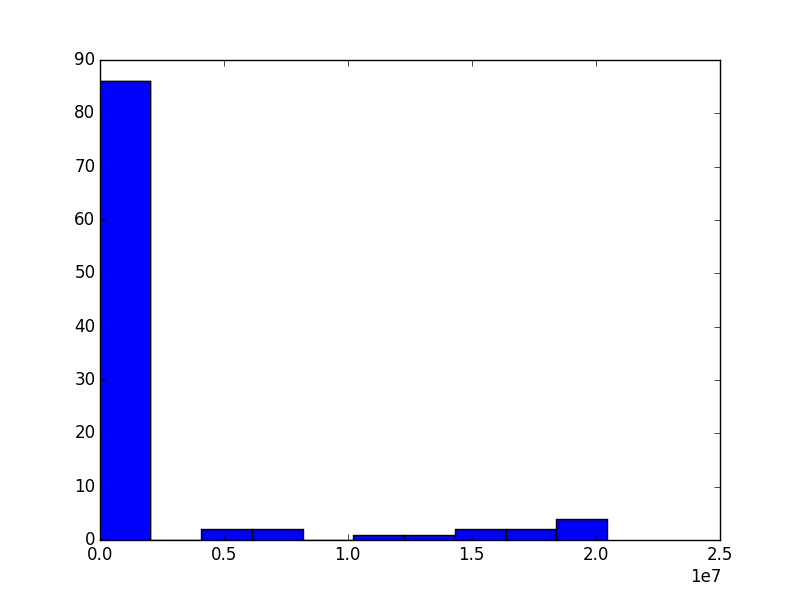
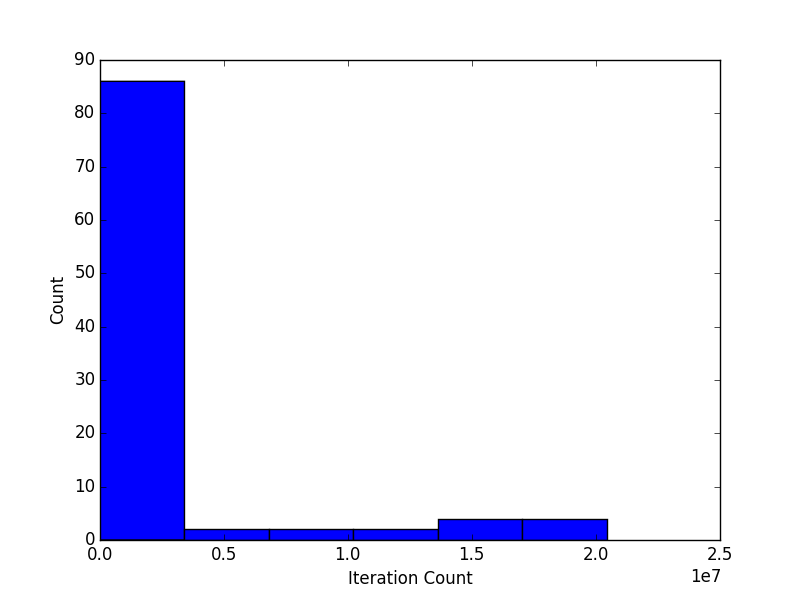
P2 Final

diff --git a/HW1/P2/P2a.py b/HW1/P2/P2a.py
@@ -5,6 +5,7 @@ import matplotlib.pyplot as plt
 import matplotlib.cm as cm
 import random
 sc = SparkContext("local")
+sc.setLogLevel("ERROR")
 
 #import functions from HW
 def mandelbrot(x, y):
@@ -35,13 +36,12 @@ def draw_image(rdd):
     plt.imshow(im, cmap=cm.gray)
     plt.show()
 
-#define single array of 2000 pixels and use .cartesian to get 2 dimensions.
+#define single array of 2000 pixels and use .cartesian() to get 2 dimensions.
 #partition size of 10 is initially used because .cartesian results in 10x10 = 100    
 pixel = range(2000)
 pix1D=sc.parallelize(pixel,10)
 pixels = pix1D.cartesian(pix1D)
 mandrdd = pixels.map(lambda i: (i, mandelbrot((i[1]/500.)-2,(i[0]/500.0)-2)))
-mandrdd.take(3)
 draw_image(mandrdd)
 plt.hist(sum_values_for_partitions(mandrdd).collect(),bins=6)
 plt.xlabel("Iteration Count")

diff --git a/HW1/P2/P2b.py b/HW1/P2/P2b.py
@@ -4,7 +4,7 @@ import numpy as np
 import matplotlib.pyplot as plt 
 import matplotlib.cm as cm
 sc = SparkContext("local")
-
+sc.setLogLevel("ERROR")
 
 def mandelbrot(x, y):
     z = c = complex(x, y)
@@ -48,6 +48,6 @@ pixels = pix1D.cartesian(pix1D).partitionBy(100).repartition(100)
 mandrdd = pixels.map(lambda i: (i, mandelbrot((i[1]/500.)-2,(i[0]/500.0)-2)))
 
 plt.hist(sum_values_for_partitions(mandrdd).collect())
-plt.savefig("P2b_hist.png")
 plt.xlabel("Iteration Count")
 plt.ylabel("Count")
+plt.savefig("P2b_hist.png")
